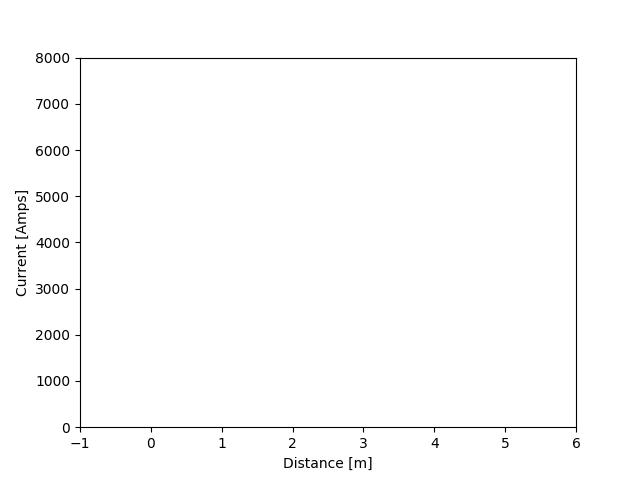
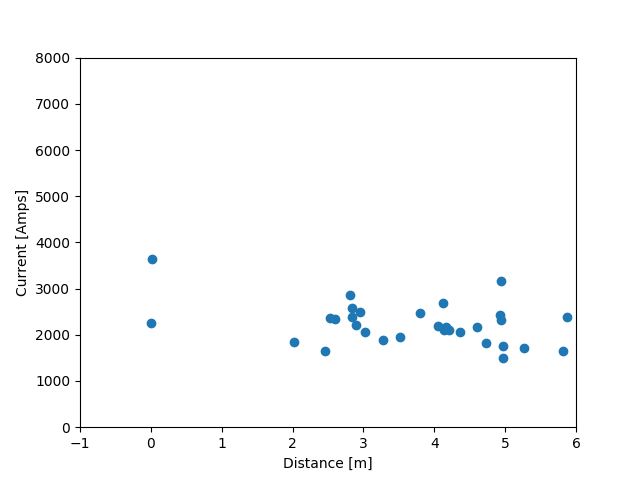
Reordering.

diff --git a/omf/scratch/OpenDssDemo/PlotMaster.py b/omf/scratch/OpenDssDemo/PlotMaster.py
@@ -67,12 +67,8 @@ def currentPlots(curr_coord):
 	''' Current plotting function.'''
 	dss.run_command('Export current currents.csv')
 	current = pd.read_csv('currents.csv')
-	print curr_coord
-	curr_coord.columns = ['Index', 'X', 'Y'] # DSS buses don't have current, but are connected to it. 
+	curr_coord.columns = ['Index', 'X', 'Y', 'radius'] # DSS buses don't have current, but are connected to it. 
 	curr_hyp = []
-	for index, row in curr_coord.iterrows():
-		curr_hyp.append(math.sqrt(row['X']**2 + row['Y']**2))
-	curr_coord['radius'] = curr_hyp
 	currentDF = pd.concat([curr_coord, current], axis=1)
 	for i in range(1, 3):
 		for j in range(1, 4):
@@ -89,8 +85,7 @@ def networkPlot(coords):
 	''' Plot the physical topology of the circuit. '''
 	dss.run_command('Export voltages volts.csv')
 	volts = pd.read_csv('volts.csv')
-	coords.columns = ['Bus', 'X', 'Y']
-
+	coords.columns = ['Bus', 'X', 'Y', 'radius']
 	G = nx.Graph() # Declare networkx object.
 	pos = {}
 	for index, row in coords.iterrows(): # Get the coordinates.
@@ -132,43 +127,36 @@ def networkPlot(coords):
 	plt.clf()
 	packagePlots('networkPlots')
 
-def capacityPlot(coords):
-	''' Plot power vs. distance '''
-	dss.run_command('Export Capacity capacity.csv')
-	capacityData = pd.read_csv('capacity.csv')
-	coords = pd.read_csv('coords.csv', names=['Index', 'X', 'Y'])
-	hyp = []
-	for index, row in coords.iterrows():
-		hyp.append(math.sqrt(row['X']**2 + row['Y']**2))
-	coords['radius'] = hyp
-	capacityDF = pd.concat([coords, capacityData], axis=1)
-	plt.scatter(capacityDF['radius'], capacityData[' kW'])
-	plt.xlabel('Distance [m]')
+def dynamicPlot():
+	''' Do a dynamic, long-term study of the powerflow. '''
+	dss.run_command('Solve mode=dynamics number=10 stepsize=.0002')
+	dss.run_command('Export Summary sum.csv')
+	dss.run_command('Export Powers powers.csv')
+	powers = pd.read_csv('powers.csv')
+	powers.columns = powers.columns.str.strip()
+	loads = powers.loc[powers['Element'].str.contains('Load')]
+	individual_loads = loads['Element']
+	individual_watts = loads['P(kW)']
+	plt.figure(figsize=(10, 8))
+	plt.xticks(rotation='vertical')
 	plt.ylabel('Power [kW]')
-	plt.savefig('PowerLoad.png')
-	plt.clf()
-	plt.scatter(capacityDF['radius'], capacityData[' Imax'])
-	plt.xlabel('Distance [m]')
-	plt.ylabel('Current [Amps]')
-	plt.savefig('CurrentLoad.png')
-	plt.clf()
-	plt.scatter(capacityDF['radius'], capacityDF.iloc[:, 2]+capacityDF.iloc[:, 3])
-	plt.xlabel('Distance [m]')
-	plt.ylabel('Maximum transformer percentage (One-side)')
-	plt.savefig('CurrentLoad.png')
-	plt.clf()
-	packagePlots('capacityPlots')
+	plt.bar(individual_loads, individual_watts)
+	packagePlots('DynamicPlots')
+
+def THD(coordFile):
+	''' Calculate and plot harmonics. '''
+	dss.run_command('Solve mode=harmonics')
+	dss.run_command('Export voltages voltharmonics.csv')
+	voltHarmonics = pd.read_csv('voltharmonics.csv')
+	regVolts = pd.read_csv('volts.csv')
+	print voltHarmonics
 
 def faultPlot(bus_coord):
 	''' Plot fault study. ''' 
 	dss.run_command('Solve Mode=FaultStudy')
 	dss.run_command('Export fault faults.csv')
 	faultData = pd.read_csv('faults.csv')
-	bus_coord.columns = ['Bus', 'X', 'Y'] # Add defined column names.
-	bus_hyp = []
-	for index, row in bus_coord.iterrows(): 
-		bus_hyp.append(math.sqrt(row['X']**2 + row['Y']**2)) # Get total distance for each entry.
-	bus_coord['radius'] = bus_hyp
+	bus_coord.columns = ['Bus', 'X', 'Y', 'radius'] # Add defined column names.
 	faultDF = pd.concat([bus_coord, faultData], axis=1)
 	faultDF.columns = faultDF.columns.str.strip()
 	plt.scatter(faultDF['radius'], faultDF['3-Phase'])
@@ -191,30 +179,28 @@ def faultPlot(bus_coord):
 	plt.clf()
 	packagePlots('FaultPlots')
 
-def dynamicPlot():
-	''' Do a dynamic, long-term study of the powerflow. '''
-	dss.run_command('Solve mode=dynamics number=10 stepsize=.0002')
-	dss.run_command('Export Summary sum.csv')
-	dss.run_command('Export Powers powers.csv')
-	powers = pd.read_csv('powers.csv')
-	powers.columns = powers.columns.str.strip()
-	loads = powers.loc[powers['Element'].str.contains('Load')]
-	individual_loads = loads['Element']
-	individual_watts = loads['P(kW)']
-	plt.figure(figsize=(10, 8))
-	plt.xticks(rotation='vertical')
+def capacityPlot(coords):
+	''' Plot power vs. distance '''
+	dss.run_command('Export Capacity capacity.csv')
+	capacityData = pd.read_csv('capacity.csv')
+	coords.columns = ['Index', 'X', 'Y', 'radius']
+	capacityDF = pd.concat([coords, capacityData], axis=1)
+	plt.scatter(capacityDF['radius'], capacityData[' kW'])
+	plt.xlabel('Distance [m]')
 	plt.ylabel('Power [kW]')
-	plt.bar(individual_loads, individual_watts)
-	plt.show()
-	packagePlots('DynamicPlots')
-
-def THD(coordFile):
-	''' Calculate and plot harmonics. '''
-	dss.run_command('Solve mode=harmonics')
-	dss.run_command('Export voltages voltharmonics.csv')
-	voltHarmonics = pd.read_csv('voltharmonics.csv')
-	regVolts = pd.read_csv('volts.csv')
-	print voltHarmonics
+	plt.savefig('PowerLoad.png')
+	plt.clf()
+	plt.scatter(capacityDF['radius'], capacityData[' Imax'])
+	plt.xlabel('Distance [m]')
+	plt.ylabel('Current [Amps]')
+	plt.savefig('CurrentLoad.png')
+	plt.clf()
+	plt.scatter(capacityDF['radius'], capacityDF.iloc[:, 2]+capacityDF.iloc[:, 3])
+	plt.xlabel('Distance [m]')
+	plt.ylabel('Maximum transformer percentage (One-side)')
+	plt.savefig('CurrentLoad.png')
+	plt.clf()
+	packagePlots('capacityPlots')
 
 if __name__ == "__main__":
 	start = time.time()
@@ -226,11 +212,11 @@ if __name__ == "__main__":
 	base_coords = None
 	if args['coordinates']:
 		coordFile = args['coordinates']
-		base_coords = pd.read_csv(coordFile)
+		base_coords = pd.read_csv(coordFile, header=None)
 	else:
 		try:
 			dss.run_command('Export BusCoords coords.csv')
-			base_coords = pd.read_csv('coords.csv')
+			base_coords = pd.read_csv('coords.csv', header=None)
 		except OSError as e:
 			if e.errno == errno.EEXIST:
 				print "Error: coodinate file not created properly. Perhaps you need to set your OpenDSS data path correctly?"
@@ -238,11 +224,11 @@ if __name__ == "__main__":
 				raise Exception('Could not read file')
 	runDSS(filename)
 	full_coords = createRadii(base_coords)
-	voltagePlots(full_coords)
-	#currentPlots(coords)
-	#networkPlot(coords)
-	#capacityPlot(coords)
-	#dynamicPlot(coords)
-	#faultPlot(coords)
+	#voltagePlots(full_coords) 
+	#currentPlots(full_coords)
+	#networkPlot(full_coords)
+	#dynamicPlot()
+	#faultPlot(full_coords)
+	#capacityPlot(full_coords)
 	#THD(full_coords)
 	print("--- %s seconds ---" % (time.time() - start)) # Check performace.
